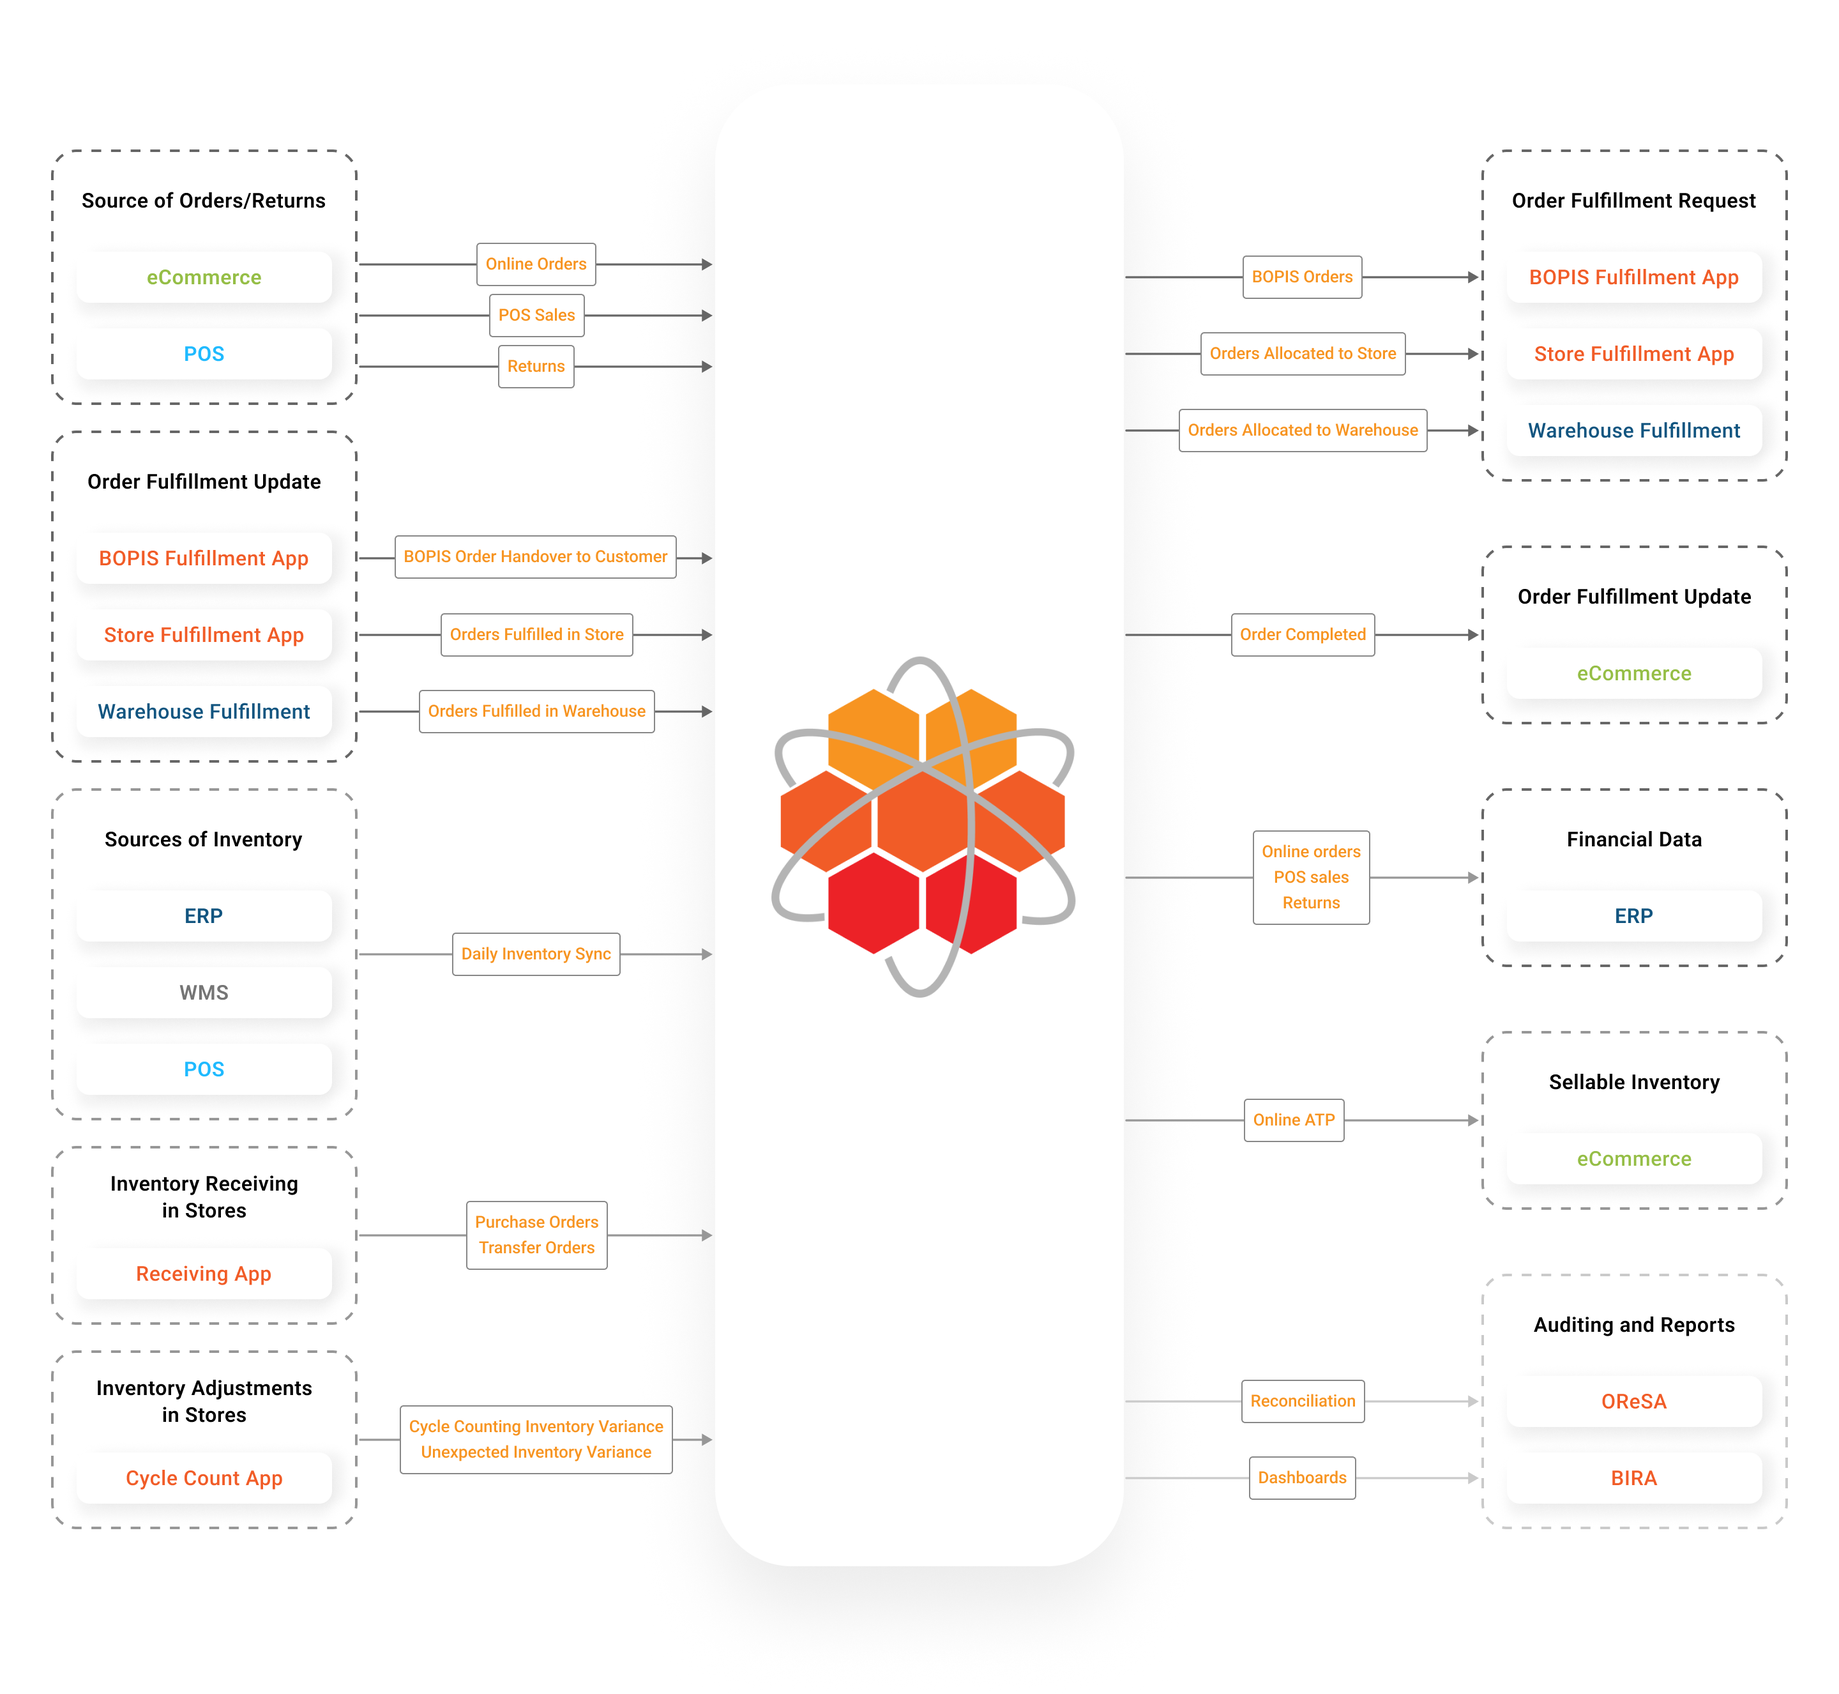
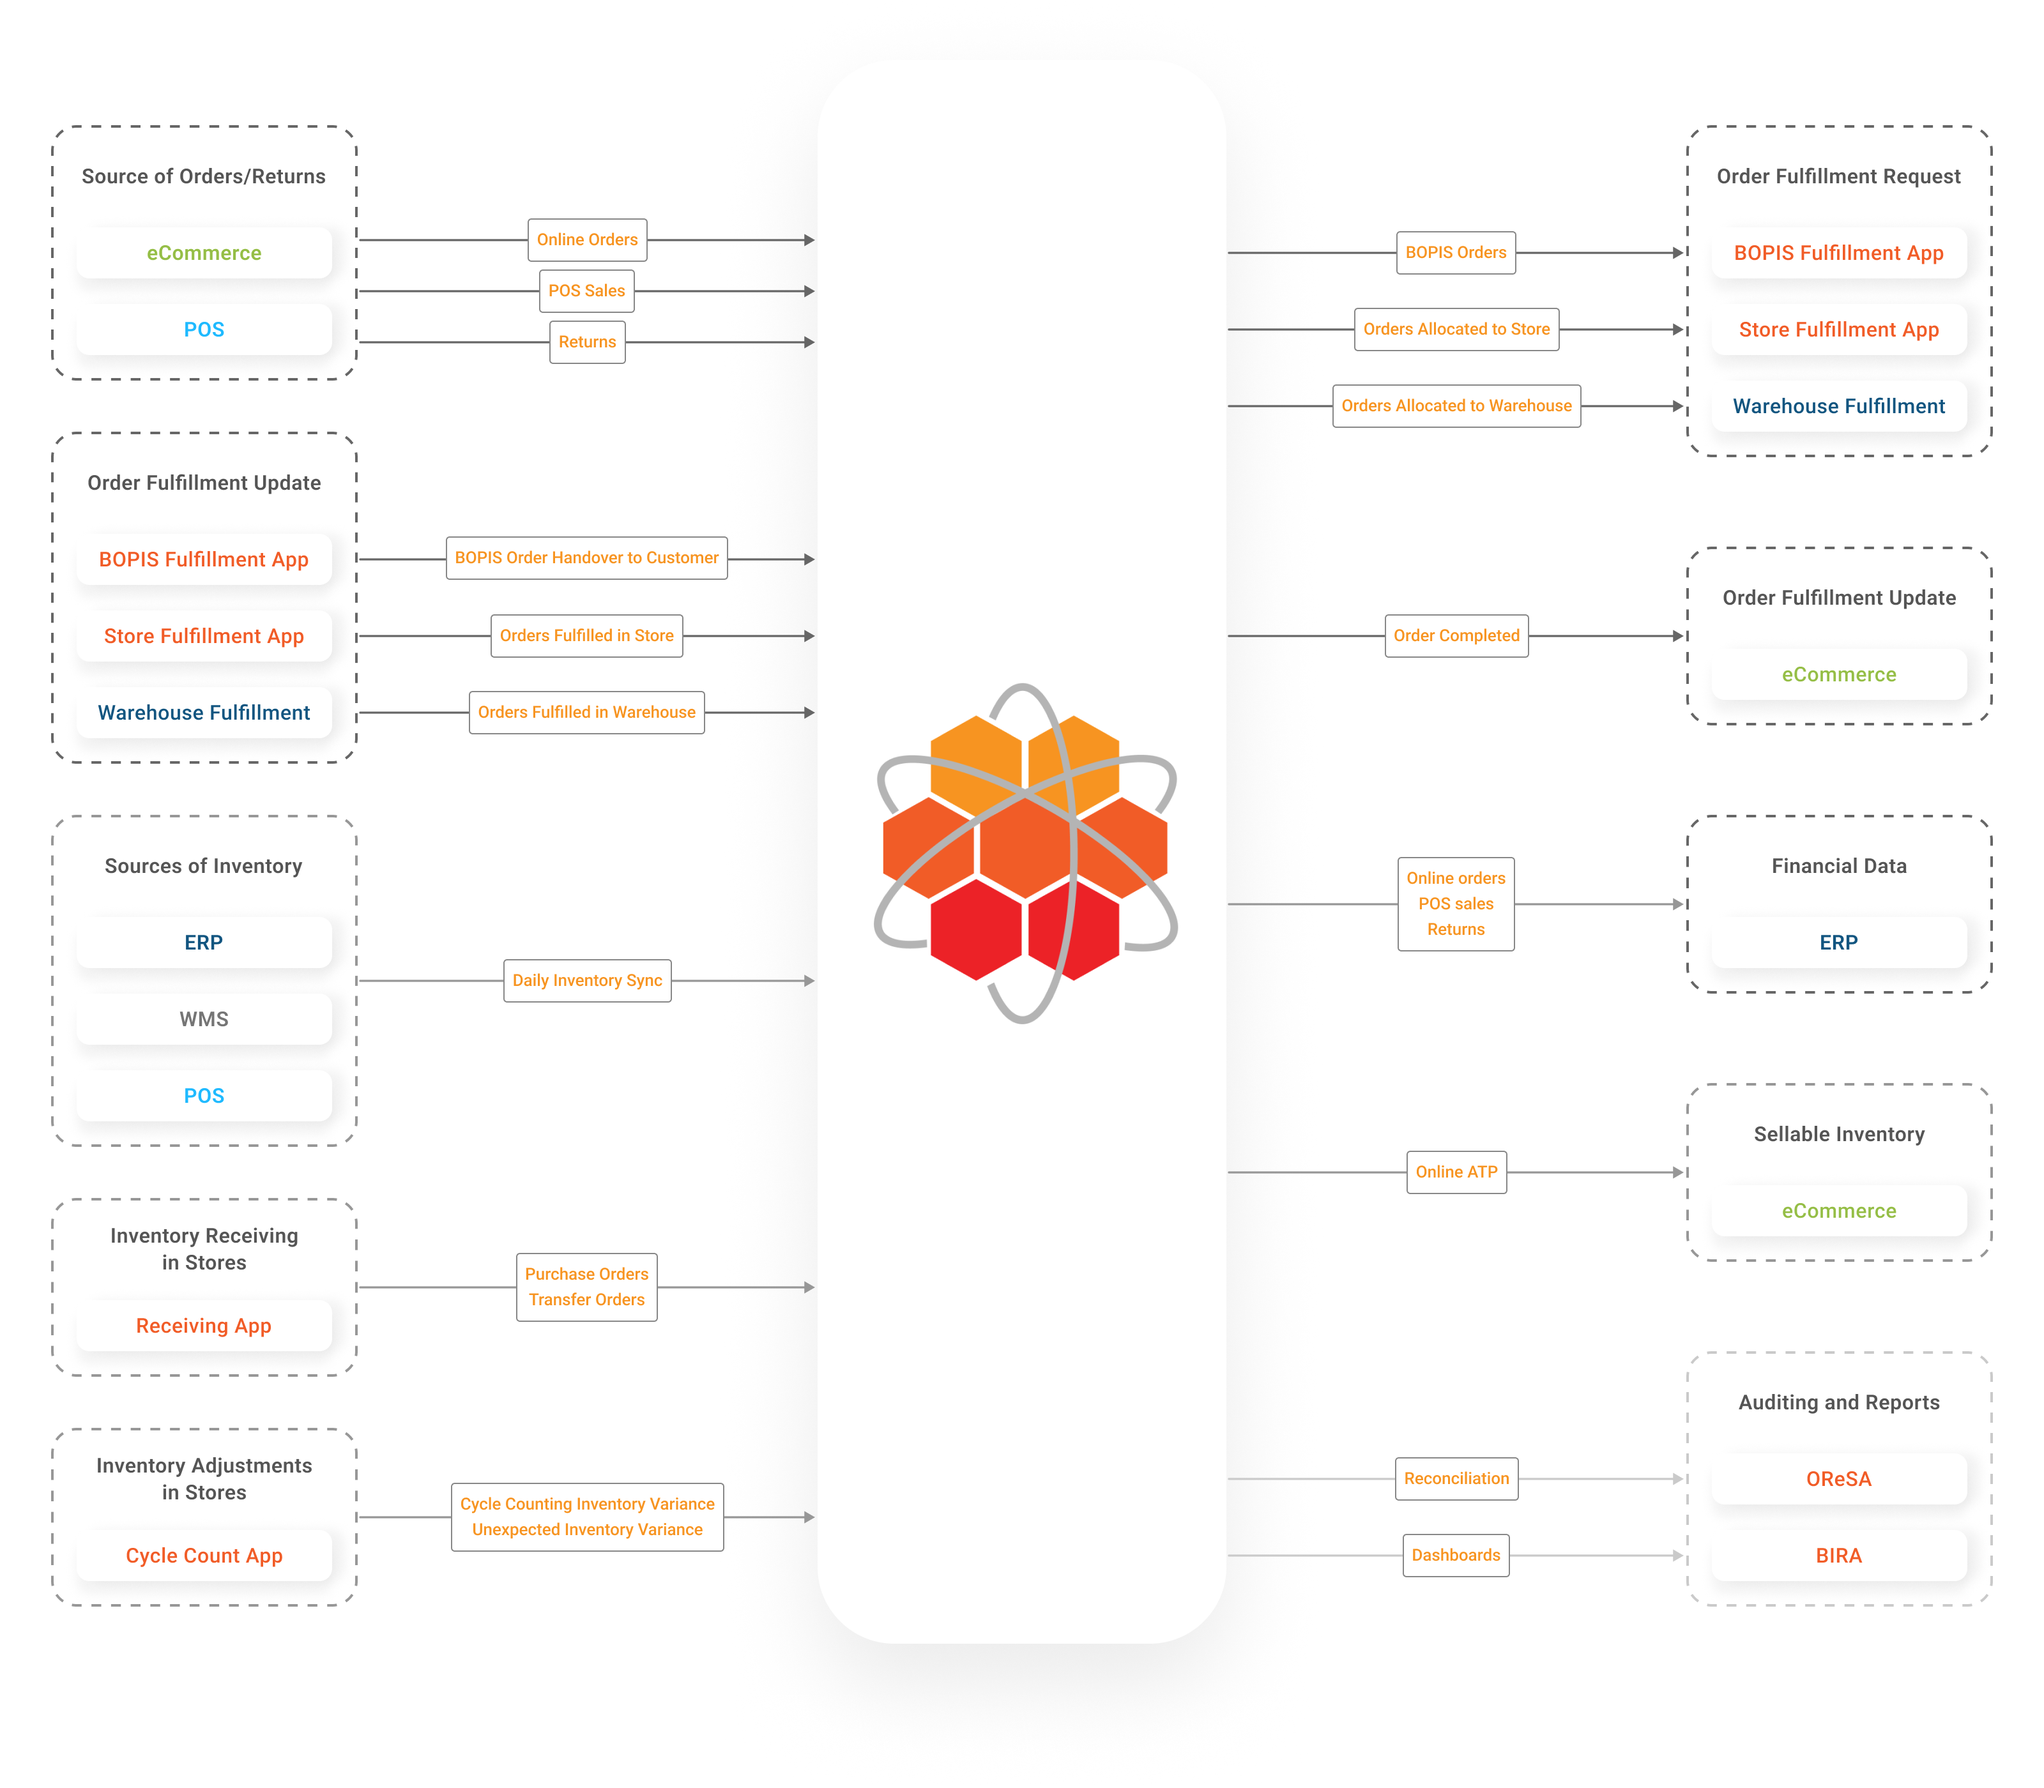
GITBOOK-16: updated images

diff --git a/documents/learn-oms/gettingstarted.md b/documents/learn-oms/gettingstarted.md
@@ -2,7 +2,7 @@
 
 HotWax Commerce is a cloud-based Omnichannel Order Management System that provides retailers with the best return on their inventory by facilitating omnichannel solutions such as Same-Day Buy Online Pick-Up In Store (BOPIS), Buy Online Return In Store, Ship From Store, and Pre-Orders to increase conversion rates and profitability. Here’s how HotWax Commerce fits into your tech ecosystem:
 
-<figure><img src=".gitbook/assets/HotWax Commerce (1).png" alt=""><figcaption><p>HotWax Commerce OMS</p></figcaption></figure>
+<figure><img src=".gitbook/assets/HotWax Commerce.png" alt=""><figcaption><p>HotWax Commerce OMS</p></figcaption></figure>
 
 HotWax Commerce integrates with multiple systems present in your tech stack, like eCommerce, ERP, WMS, and POS, creates a single sellable inventory count, syncs inventory in real time across sales channels, and efficiently routes online orders to the best fulfillment locations.
 
